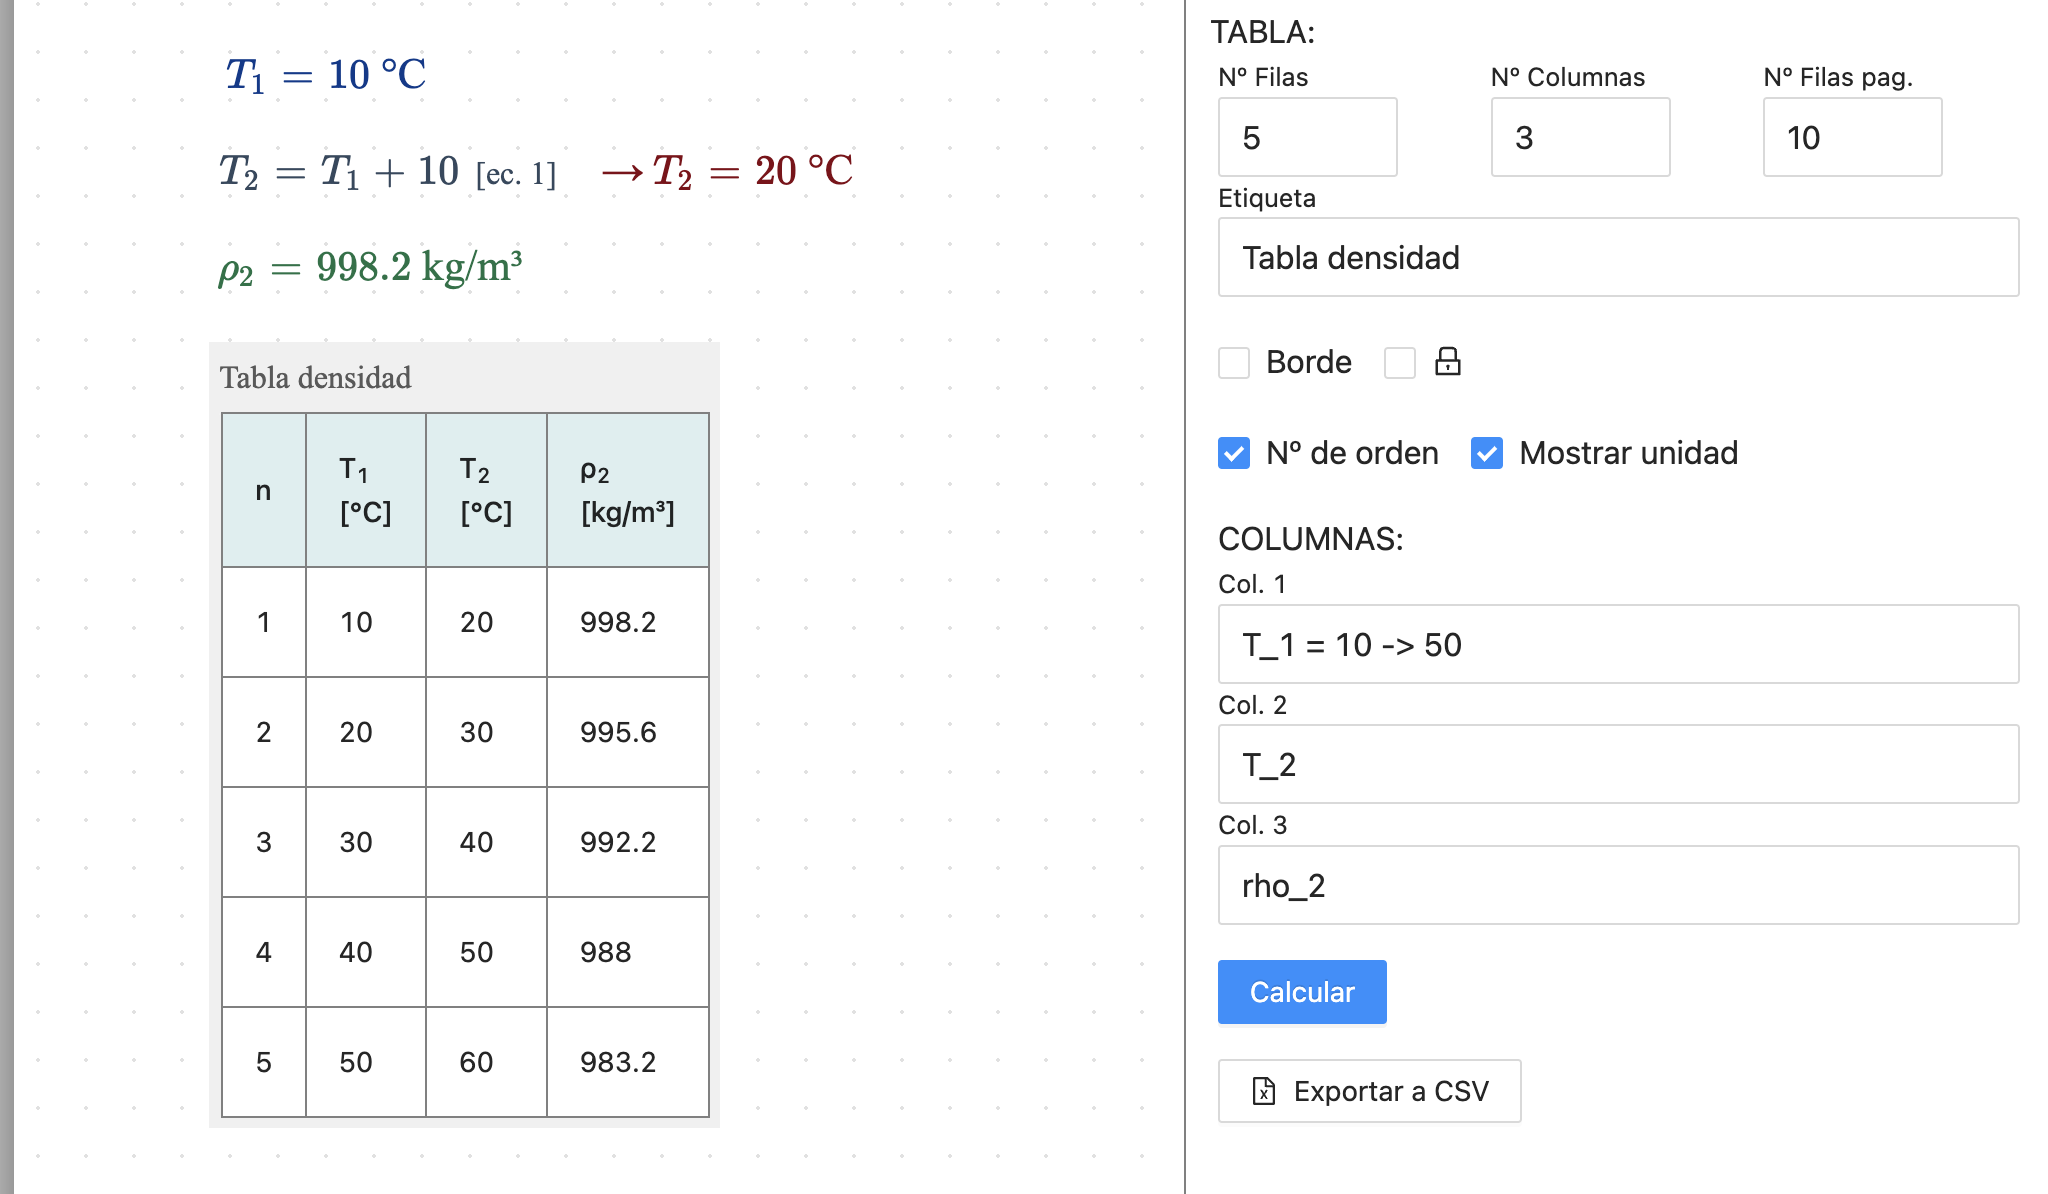
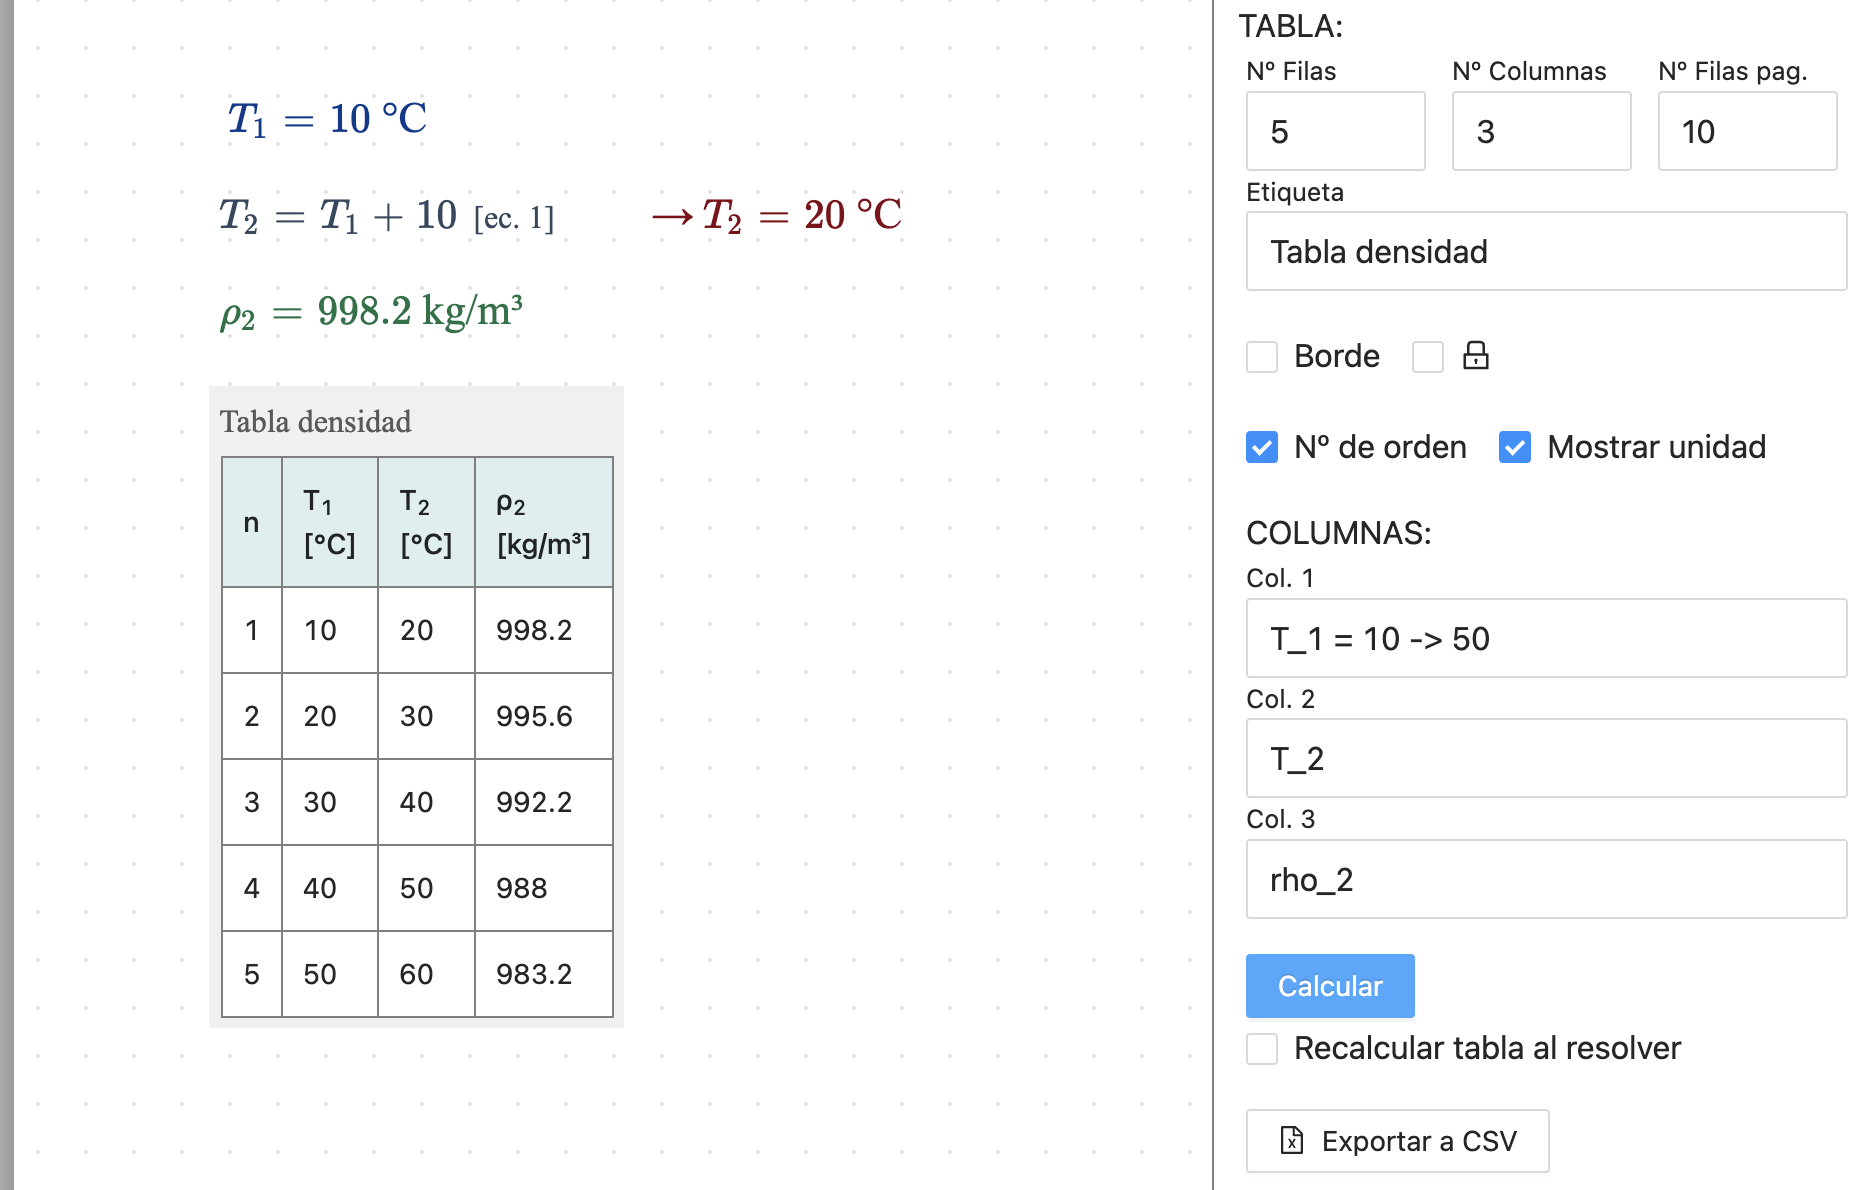
Version 4.32 manual de usuario

diff --git a/docs/user manual.html b/docs/user manual.html
@@ -900,7 +900,9 @@
 				</ul>
 
 				<p>Once all the columns have been defined, click on the "Calculate" button to obtain the values of all
-					the rows, solving the problem as many times as we have rows. The button "Export to CSV" allows us to
+					the rows, solving the problem as many times as we have rows. If we activate the check 
+					“Recalculate table when solving” the table will be recalculated each time we solve the problem (or the section where the table is located).
+					The button "Export to CSV" allows us to
 					export the values of the table to a file that we can later use in our computer.
 				</p>
 

diff --git a/docs/manual usuario.html b/docs/manual usuario.html
@@ -954,7 +954,8 @@
 				</ul>
 
 				<p>Una vez definidas todas las columnas pulsaremos el botón "Calcular" para obtener los valores
-					de todas las filas resolviendo el problema tantas veces como filas tengamos.
+					de todas las filas resolviendo el problema tantas veces como filas tengamos. Si activamos el check 
+					"Recalcular tabla al resolver" se recalculará la tabla cada vez que resolvamos el problema (o la sección en la que se encuentre la tabla).
 					El botón "Exportar a CSV" nos permite exportar los valores
 					de la tabla a un archivo que posteriormente podremos usar en nuestro ordenador.
 				</p>
